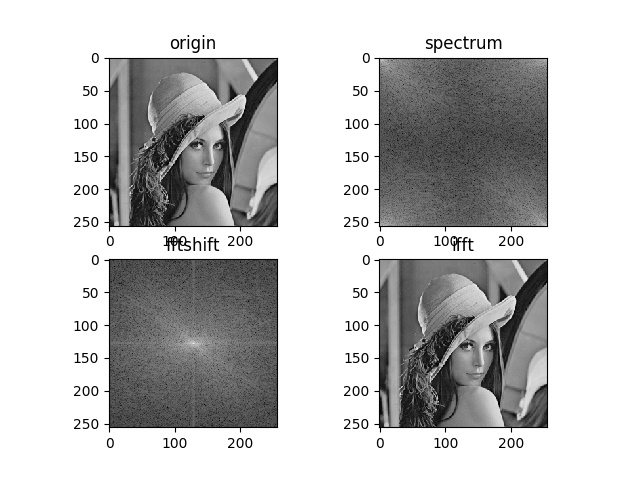
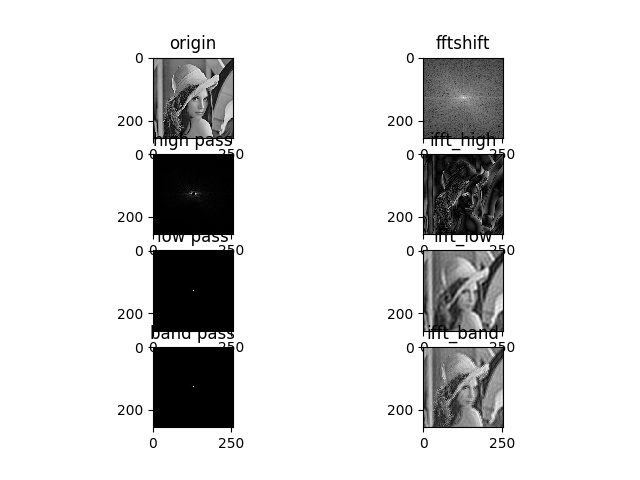
update

diff --git a/image_project/chp4/picfrequence.py b/image_project/chp4/picfrequence.py
@@ -8,32 +8,115 @@ sys.path.append("..")
 from common.common import *
 
 
+def get_complex_distance(comp1,comp2):
+    return np.sqrt((comp1.real-comp2.real)**2 + (comp1.imag-comp2.imag)**2)
+
+
 def fft_test():
     data = get_image_data("../pic/lena.jpg")
 
-    plt.subplot(2,2,1)
+    plt.subplot(4,2,1)
     plt.title('origin')
     plt.imshow(data,cmap = plt.get_cmap('gray'))
 
-    plt.subplot(2,2,2)
     fft = np.fft.fft2(data)
-    amp_spectrum = np.abs(fft)
-    plt.title('spectrum')
-    plt.imshow(np.log(amp_spectrum),cmap = plt.get_cmap('gray'))
+    # plt.subplot(4,2,2)
+    # amp_spectrum = np.abs(fft)
+    # plt.title('spectrum')
+    # plt.imshow(np.log(amp_spectrum),cmap = plt.get_cmap('gray'))
 
-    plt.subplot(2, 2, 3)
+    plt.subplot(4, 2, 2)
     fft_shift = np.fft.fftshift(fft)
     plt.title('fftshift')
     plt.imshow(np.log(np.abs(fft_shift)),cmap = plt.get_cmap('gray'))
 
-    plt.subplot(2, 2, 4)
-    ifft = np.fft.ifft2(fft)
-    plt.title('ifft')
-    plt.imshow(np.abs(ifft), cmap=plt.get_cmap('gray'))
 
-    #plt.savefig('fourier.jpg')
+    fft_shift_high = np.copy(fft_shift)
+    h,w = fft_shift_high.shape
+    for i in range(w):
+        for j in range(h):
+            d = np.sqrt((i-w/2)**2 + (j-h/2)**2)
+            if  d <= 5:
+                fft_shift_high[i,j] = 0j
+
+    plt.subplot(4, 2, 3)
+    plt.title('high pass')
+    plt.imshow(np.abs(fft_shift_high), cmap=plt.get_cmap('gray'))
+
+    plt.subplot(4, 2, 4)
+    ifft_high = np.fft.ifft2(fft_shift_high)
+    plt.title('ifft_high')
+    plt.imshow(np.abs(ifft_high), cmap=plt.get_cmap('gray'))
+
+    fft_shift_low = np.copy(fft_shift)
+    h,w = fft_shift_low.shape
+    for i in range(w):
+        for j in range(h):
+            d = np.sqrt((i-w/2)**2 + (j-h/2)**2)
+            if  d >= 20:
+                fft_shift_low[i,j] = 0j
+
+    plt.subplot(4, 2, 5)
+    plt.title('low pass')
+    plt.imshow(np.abs(fft_shift_low), cmap=plt.get_cmap('gray'))
+
+
+    plt.subplot(4, 2, 6)
+    ifft_low = np.fft.ifft2(fft_shift_low)
+    plt.title('ifft_low')
+    plt.imshow(np.abs(ifft_low), cmap=plt.get_cmap('gray'))
+
+
+    fft_shift_band = np.copy(fft_shift)
+    h,w = fft_shift_band.shape
+    for i in range(w):
+        for j in range(h):
+            d = np.sqrt((i-w/2)**2 + (j-h/2)**2)
+            if  d >= 20  and d <=40:
+                fft_shift_band[i,j] = 0j
+
+    plt.subplot(4, 2, 7)
+    plt.title('band pass')
+    plt.imshow(np.abs(fft_shift_band), cmap=plt.get_cmap('gray'))
+
+
+    plt.subplot(4, 2, 8)
+    ifft_band = np.fft.ifft2(fft_shift_band)
+    plt.title('ifft_band')
+    plt.imshow(np.abs(ifft_band), cmap=plt.get_cmap('gray'))
+
+
+    plt.savefig('fourier.jpg')
     plt.show()
 
 
+def batworth_low_pass_filter():
+    data = get_image_data("../pic/lena.jpg")
+    fft = np.fft.fft2(data)
+    fft_shift = np.fft.fftshift(fft)
+
+    d0 = 5
+    h,w = fft_shift.shape
+    for i in range(w):
+        for j in range(h):
+            d = np.sqrt((i-w/2)**2 + (j-h/2)**2)
+            if  d <= d0:
+                fft_shift[i,j] = 1/(1+(d/d0)**2)
+
+
+    print fft_shift
+
+    plt.subplot(1, 2, 1)
+    plt.title('origin')
+    plt.imshow(data, cmap=plt.get_cmap('gray'))
+
+    plt.subplot(1, 2, 2)
+    ifft = np.fft.ifft2(fft_shift)
+    plt.title('ifft_bw')
+    plt.imshow(np.abs(ifft), cmap=plt.get_cmap('gray'))
+
+    plt.show()
+
 if __name__ == '__main__':
-    fft_test()
+    #fft_test()
+    batworth_low_pass_filter()
